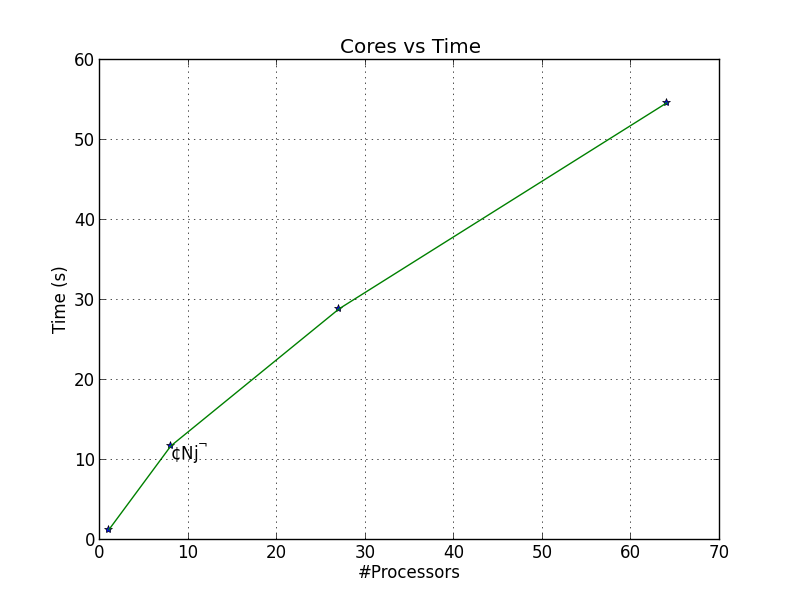
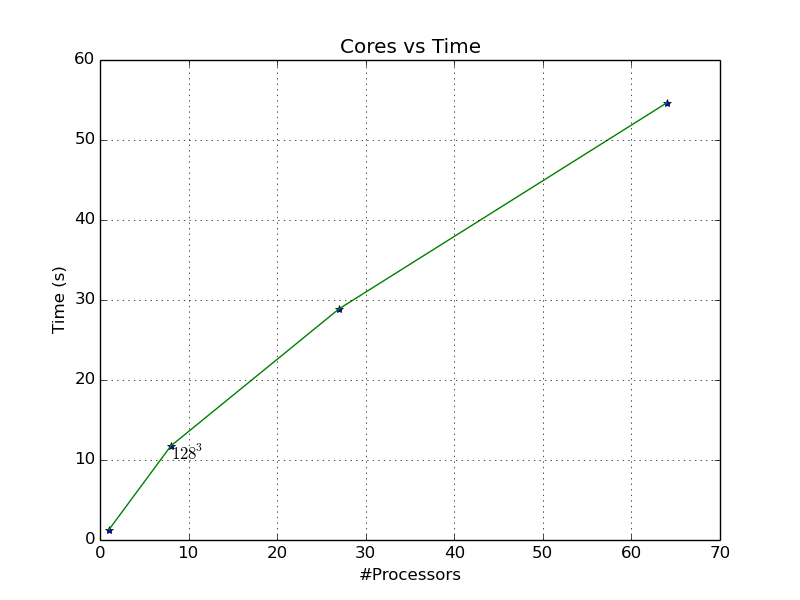
sync

diff --git a/Oppgave/scripts/scalingMG.py b/Oppgave/scripts/scalingMG.py
@@ -10,9 +10,10 @@ plt.plot(x,y, "*")
 plt.plot(x,y)
 plt.ylabel("Time (s)")
 plt.xlabel("#Processors")
-plt.text(2**3,10, "$128^3$")
-
+plt.text(2**3-3,13, "$64^3$")
+plt.text(3**3-3,30, "$96^3$")
+plt.text(4**3-3,50, "$128^3$")
 plt.title("Cores vs Time")
 plt.grid()
-plt.savefig("")
+plt.savefig("scalingMG")
 plt.show()
